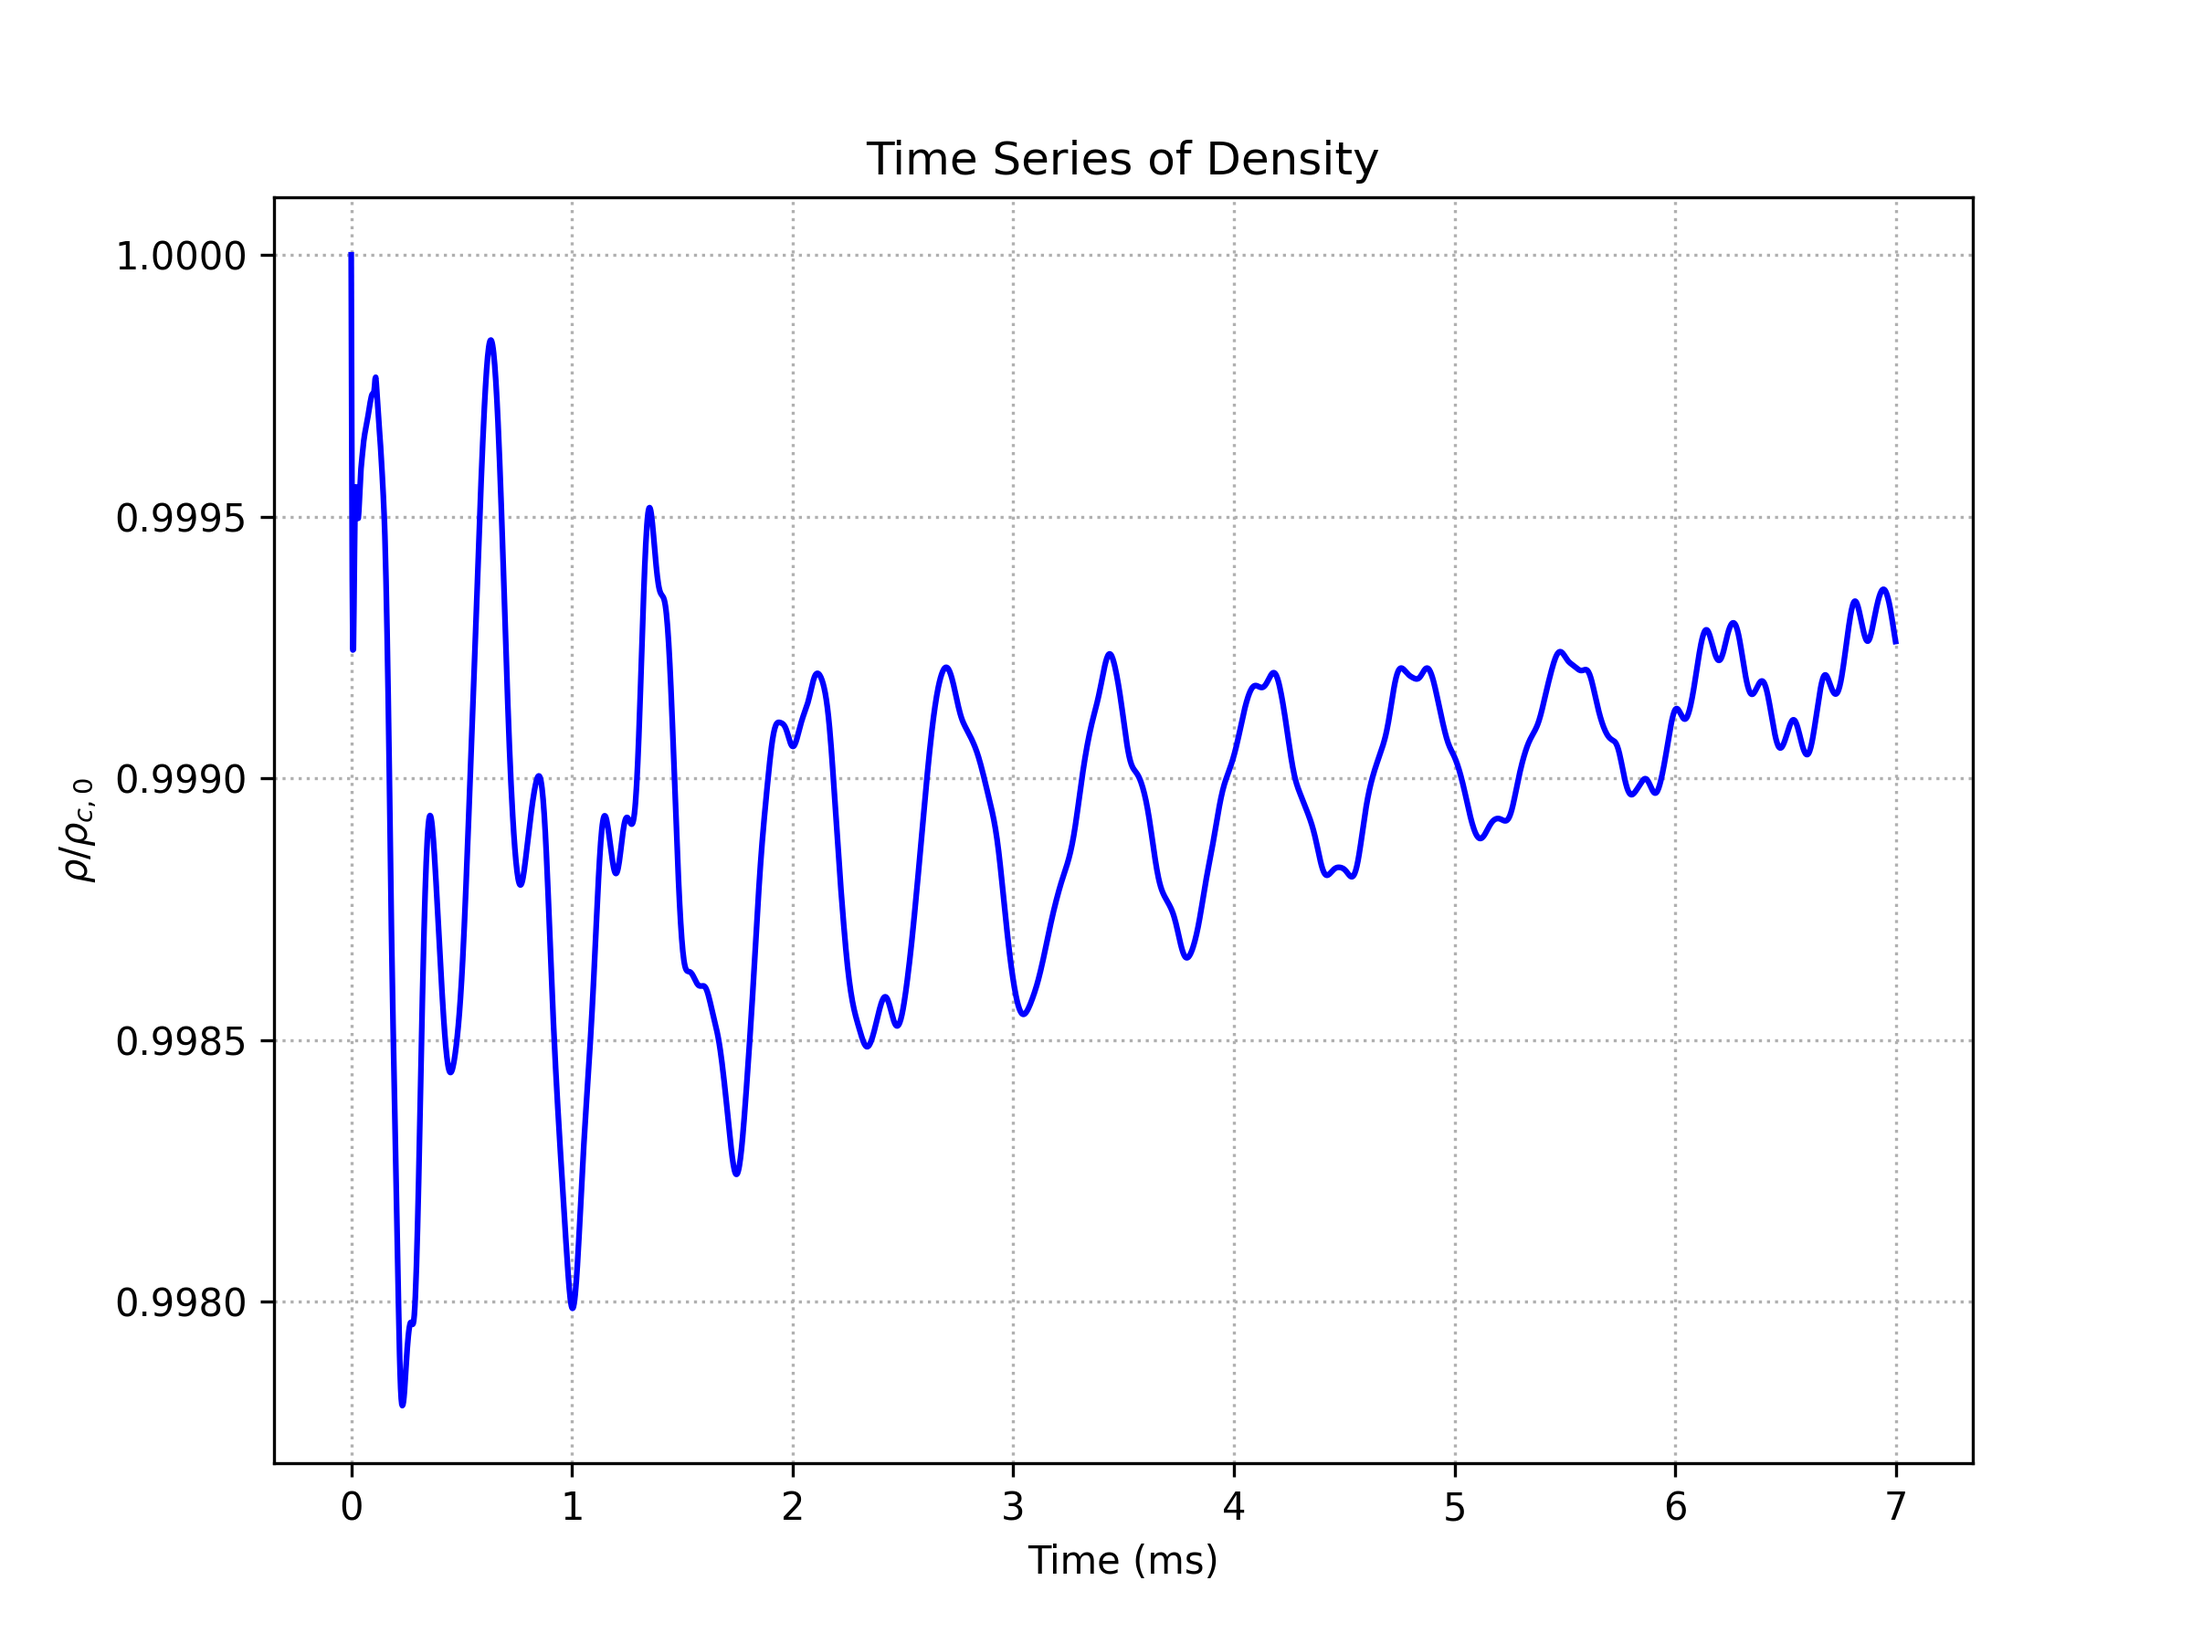
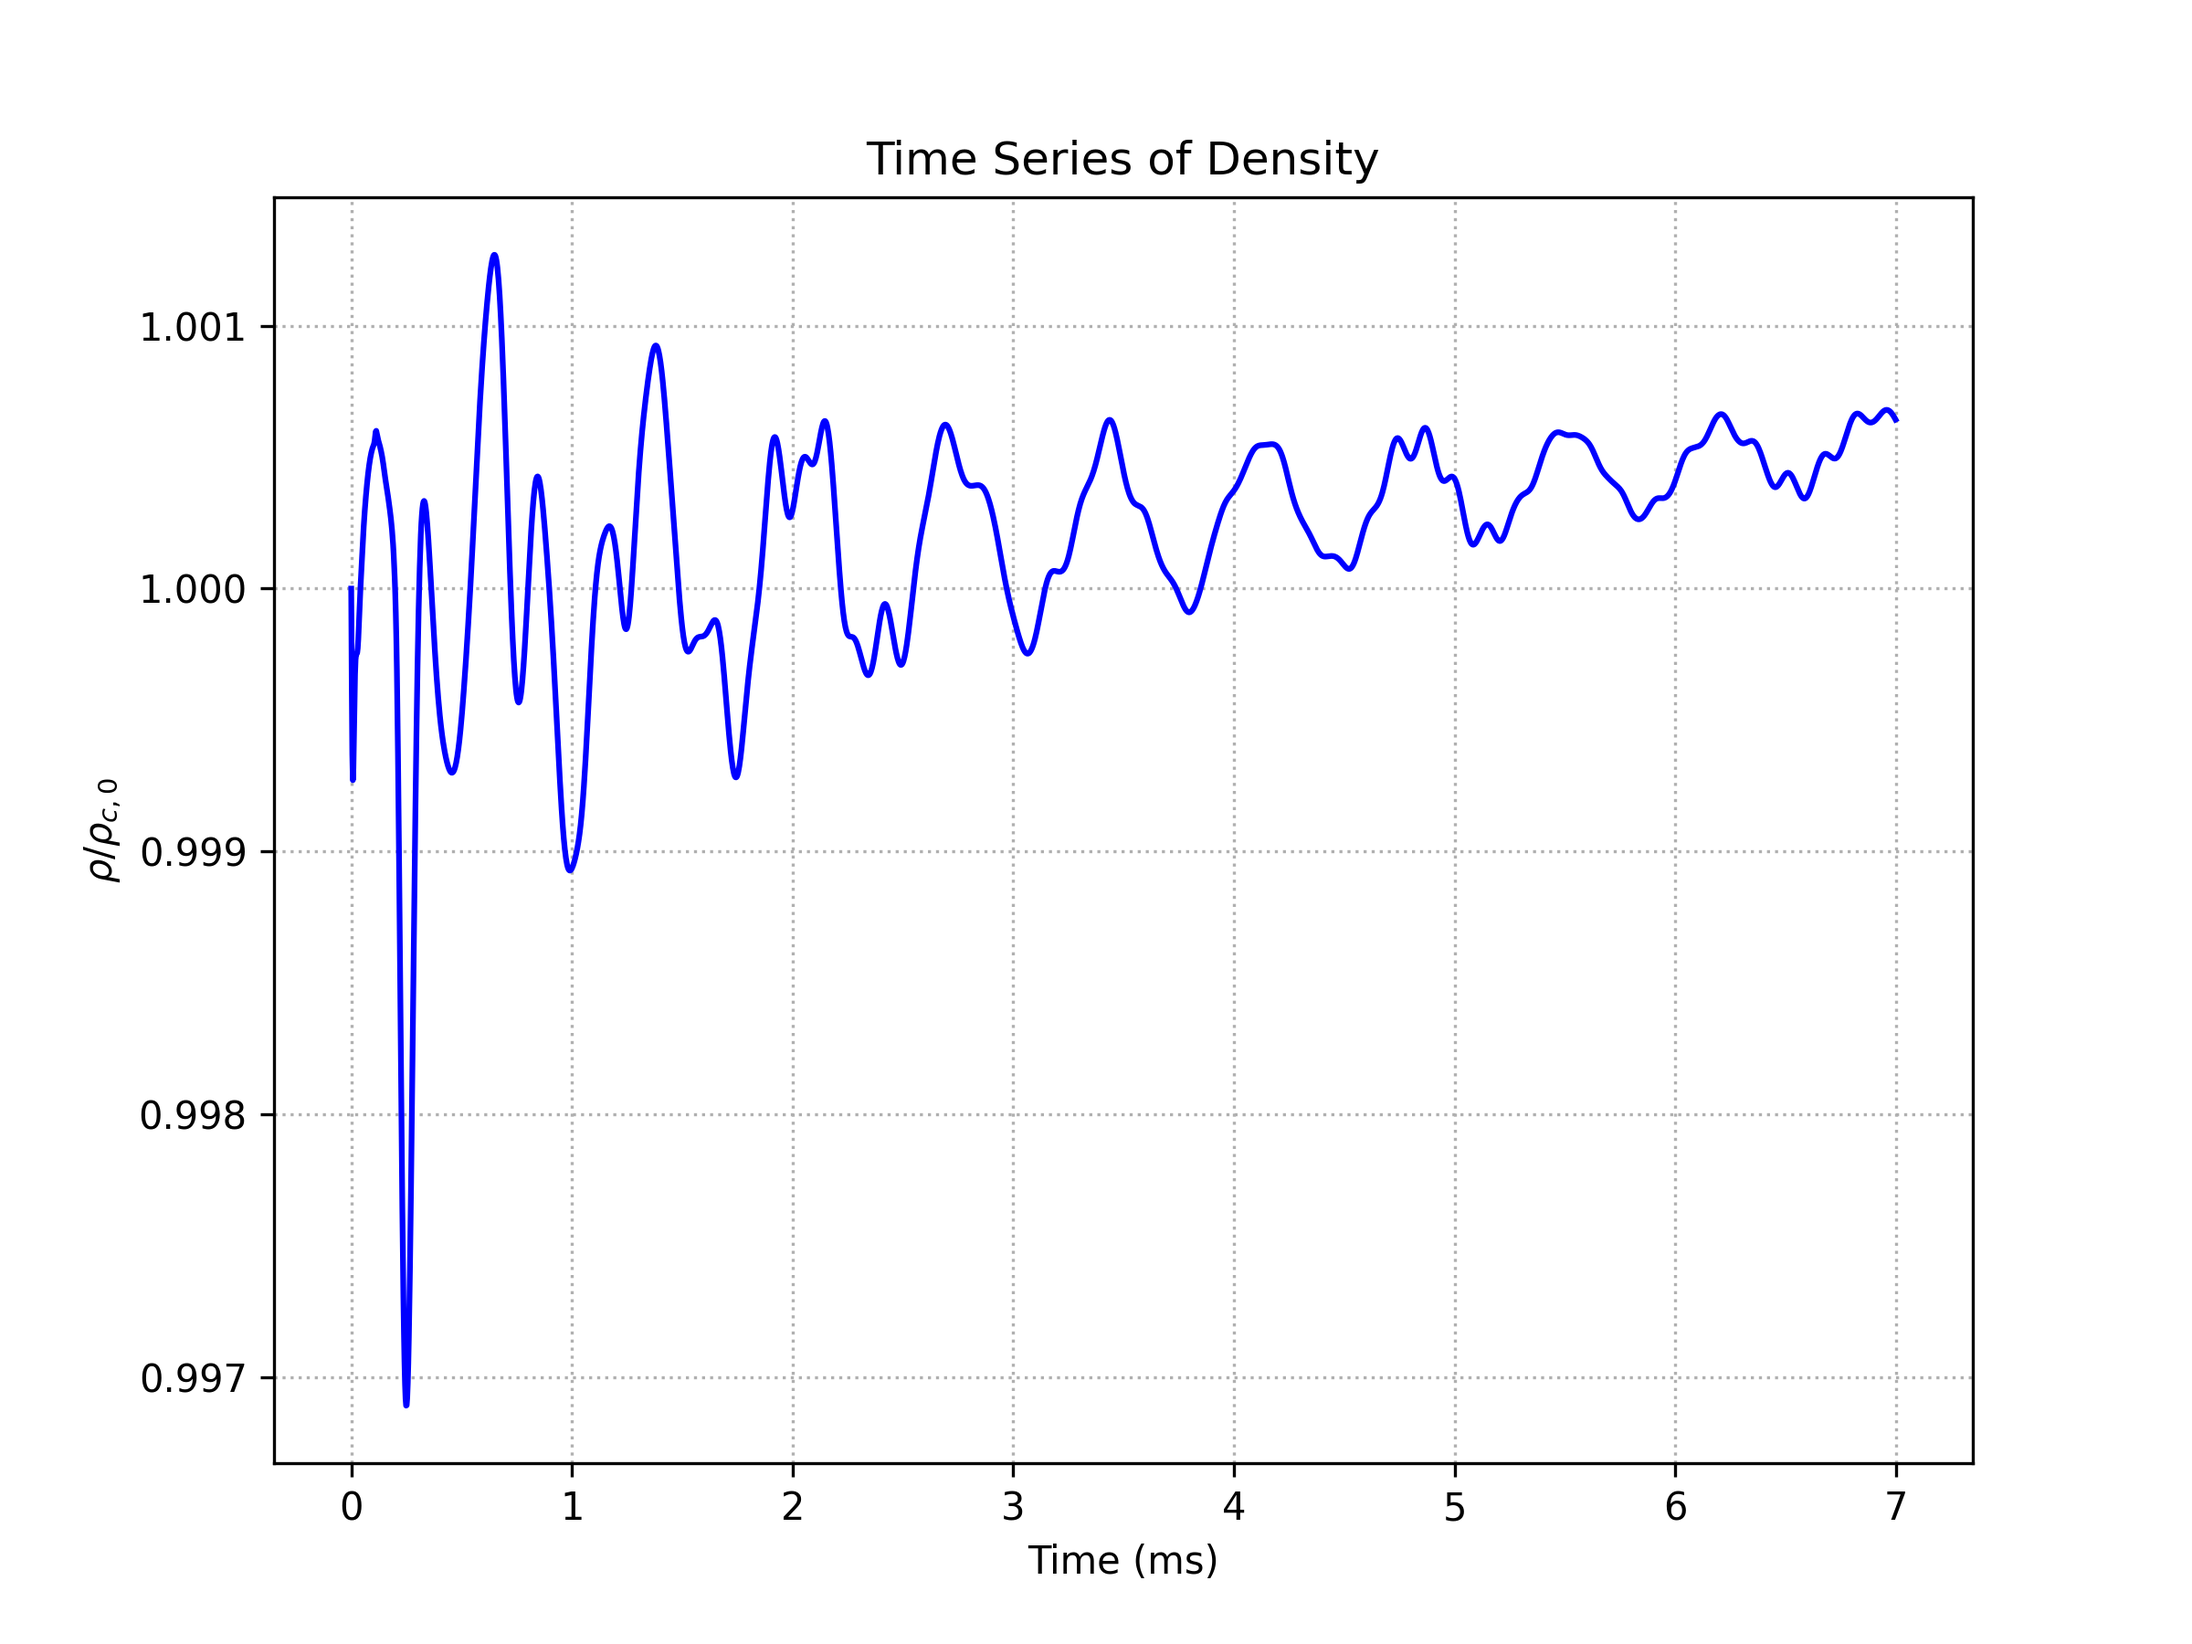
change

diff --git a/sim_tov.py b/sim_tov.py
@@ -232,7 +232,7 @@ lines2, labels2 = ax2.get_legend_handles_labels()
 plt.legend(lines1 + lines2, labels1 + labels2, loc="upper right")
 plt.savefig(output_dir + "density_lapse.png", dpi=300)
 
-ixd = 0
+ixd = 10
 time_values,f_xt_values = fx_timeseries(t_1,x_p_1,datax_1,ixd,"x")
 
 time_values = np.array(time_values)/203  # convert to ms
